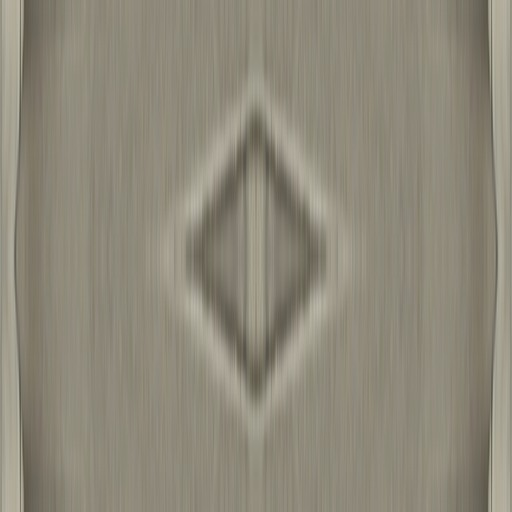
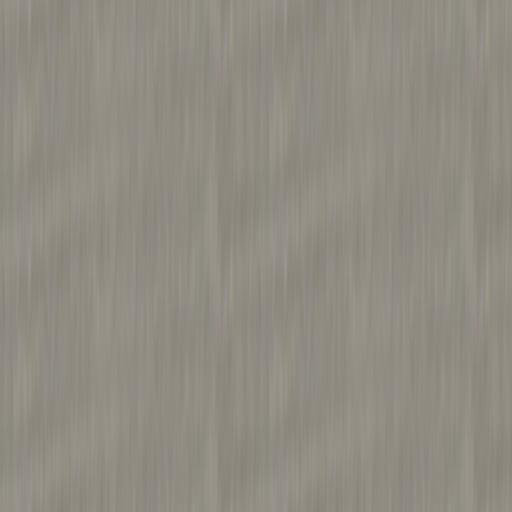
Correct Institut Kultury recessed vault, four-face pylons and photo finishes

diff --git a/metro2/tools/institut_kultury_photos/refine_art.py b/metro2/tools/institut_kultury_photos/refine_art.py
@@ -1,0 +1,65 @@
+"""Rebuild only corrected Institut Kultury surfaces from the owner's original photographs."""
+from pathlib import Path
+import argparse
+import hashlib
+import json
+import numpy as np
+from PIL import Image, ImageOps, ImageFilter
+
+ROOT = Path(__file__).resolve().parents[2]
+OUT = ROOT / 'modules/stations/institut_kultury/art'
+p = argparse.ArgumentParser()
+p.add_argument('--photos', type=Path, required=True)
+args = p.parse_args()
+records = json.loads((OUT / 'owner_sources.json').read_text())
+
+def source(stem):
+    path = args.photos / ('20261122_' + stem + '.jpg')
+    image = ImageOps.exif_transpose(Image.open(path)).convert('RGB')
+    image.thumbnail((1500, 1200))
+    return path, image
+
+def record(stem, asset, coordinates, treatment):
+    path, _ = source(stem)
+    records[:] = [r for r in records if r.get('asset') != asset]
+    records.append(dict(source=path.name, sha256=hashlib.sha256(path.read_bytes()).hexdigest(),
+                        asset=asset, coordinates_at_preview_1500x1200=coordinates,
+                        treatment=treatment))
+
+def stone(stem, asset, rect, target):
+    _, image = source(stem)
+    # Select an uninterrupted slab interior, then remove large photographic light gradients.
+    # Never mirror a perspective photograph: that creates repeating diamond patterns.
+    image = image.crop(rect).resize((512, 512), Image.Resampling.LANCZOS)
+    a = np.asarray(image, dtype=float)
+    low = np.asarray(image.filter(ImageFilter.GaussianBlur(24)), dtype=float)
+    grain = a - low
+    y, x = np.mgrid[:512, :512]
+    weight = (np.sin(np.pi*x/512)**2 * np.sin(np.pi*y/512)**2)[..., None]
+    total = np.zeros_like(a)
+    weights = np.zeros((512, 512, 1))
+    for dy, dx in [(0,0), (256,0), (0,256), (256,256)]:
+        w = np.roll(weight, (dy, dx), (0,1))
+        total += np.roll(grain, (dy, dx), (0,1)) * w
+        weights += w
+    image = Image.fromarray(np.uint8(np.clip(total / weights + np.array(target), 0, 255)))
+    image.save(OUT / asset, quality=93)
+    record(stem, asset, rect, 'Uninterrupted stone; high-pass lighting removal; periodic overlapping grain, no mirroring')
+
+stone('172347', 'wall_granite.jpg', (820,380,1000,430), (139,121,104))
+stone('172154', 'vestibule_marble.jpg', (100,300,180,330), (192,190,179))
+stone('172154', 'stair_granite.jpg', (400,738,740,752), (145,141,131))
+
+# Preserve the actual photographed direction, highlighted station and transfer labels.
+_, image = source('172040')
+size = (1600, 360)
+corners = [(398,490), (1173,490), (1180,661), (387,665)]
+a, b = [], []
+for (u,v), (x,y) in zip([(0,0),(size[0]-1,0),(size[0]-1,size[1]-1),(0,size[1]-1)], corners):
+    a.extend([[u,v,1,0,0,0,-x*u,-x*v], [0,0,0,u,v,1,-y*u,-y*v]])
+    b.extend([x,y])
+h = np.linalg.solve(np.array(a), np.array(b))
+image = image.transform(size, Image.Transform.PERSPECTIVE, h, Image.Resampling.BICUBIC)
+image.save(OUT / 'wall_route_photo.jpg', quality=95)
+record('172040', 'wall_route_photo.jpg', corners, 'Perspective-rectified complete original route board')
+(OUT / 'owner_sources.json').write_text(json.dumps(records, ensure_ascii=False, indent=2) + '\n')
